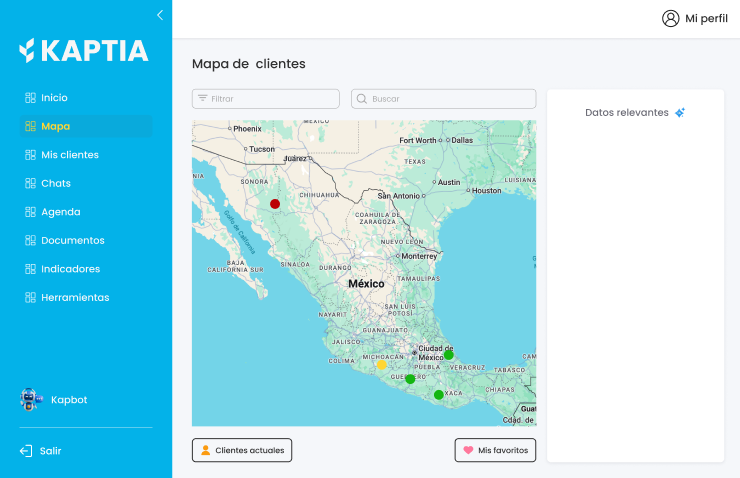
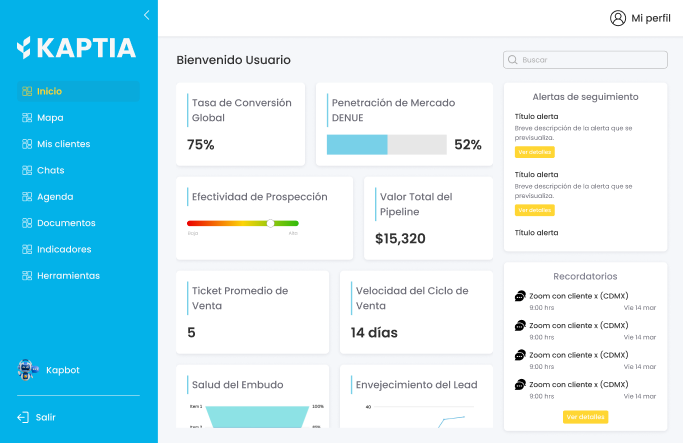
feat(product): redesign product page with scroll animations and new hero
Rebuild Product section with responsive layout across sm/md/lg/xl,
useScrollAnimation hook on all below-fold sections, centered hero with
badge, logo, yellow accent and glow, dashboard showcase, features grid
with staggered cards, and closing CTA section.

diff --git a/src/sections/Product.jsx b/src/sections/Product.jsx
@@ -1,7 +1,210 @@
+"use client";
+import { CheckCircleIcon } from "@heroicons/react/24/solid";
+import CustomButton from "@ui/CustomButton";
+import { useScrollAnimation } from "@/hooks/useScrollAnimation";
+
+const FEATURES = [
+  {
+    title: "CRM",
+    description: "Gestiona clientes y oportunidades en un solo lugar",
+  },
+  {
+    title: "Mapa interactivo de prospectos",
+    description: "Visualiza clientes potenciales geolocalizados en tiempo real",
+  },
+  {
+    title: "Agenda inteligente",
+    description: "Organiza visitas y seguimientos de forma eficiente",
+  },
+  {
+    title: "Herramientas especializadas de la industria",
+    description: "Funcionalidades diseñadas para el sector agroindustrial",
+  },
+  {
+    title: "Asistente virtual",
+    description: "KaptiaBot analiza y prioriza prospectos por ti",
+  },
+];
+
 export default function Product() {
-    return (
-        <>
-            Pantalla de producto va aquí
-        </>
-    );
+  const [dashboardHeadingRef, dashboardHeadingVisible] = useScrollAnimation();
+  const [dashboardImagesRef, dashboardImagesVisible] = useScrollAnimation();
+  const [featuresHeadingRef, featuresHeadingVisible] = useScrollAnimation();
+  const [featuresGridRef, featuresGridVisible] = useScrollAnimation();
+  const [closingTextRef, closingTextVisible] = useScrollAnimation();
+  const [closingCtaRef, closingCtaVisible] = useScrollAnimation();
+
+  return (
+    <>
+      <section className="min-h-screen flex flex-col justify-center items-center px-5 lg:px-8 pt-24 pb-20 relative overflow-hidden text-center">
+        <img
+          className="absolute right-0 top-1/2 -translate-y-1/2 h-[110vh] opacity-[0.06] pointer-events-none select-none"
+          src="/images/figura_3.webp"
+          alt=""
+          aria-hidden="true"
+        />
+
+        <div className="absolute top-1/2 left-1/2 -translate-x-1/2 -translate-y-1/2 w-150 h-150 rounded-full bg-kaptia-primary-blue/10 blur-3xl pointer-events-none" />
+
+        <div className="flex flex-col items-center gap-8 z-10 max-w-4xl w-full">
+          <span className="border border-kaptia-secondary-blue/30 text-kaptia-secondary-blue text-xs font-semibold px-5 py-2 rounded-full bg-kaptia-secondary-blue/10 uppercase tracking-widest animate-slide-in-bottom">
+            Plataforma de ventas inteligente
+          </span>
+
+          <div className="flex flex-col items-center gap-4">
+            <h1 className="text-white/60 font-black text-2xl md:text-3xl uppercase tracking-[0.3em] animate-slide-in-bottom animate-delay-100">
+              Conoce a
+            </h1>
+            <img
+              className="h-16 md:h-24 xl:h-28 animate-slide-in-bottom animate-delay-200"
+              src="/logos/logoCombinado.webp"
+              alt="Logo de Kaptia"
+            />
+          </div>
+
+          <div className="w-16 h-1 bg-kaptia-yellow rounded-full animate-slide-in-bottom animate-delay-300" />
+
+          <p className="text-white/60 text-xl md:text-2xl font-light leading-relaxed max-w-2xl animate-slide-up-fade animate-delay-300">
+            La plataforma inteligente de prospección y gestión comercial para
+            equipos de ventas del sector agroindustrial.
+          </p>
+
+          <div className="flex flex-col gap-4 items-center animate-slide-up-fade animate-delay-400">
+            <CustomButton
+              text="Solicitar demo"
+              primaryColor="bg-kaptia-yellow"
+              secondaryColor="bg-white"
+              textColor="text-kaptia-primary-blue"
+              onClick={() => (window.location.href = "#contacto")}
+            />
+            <button
+              className="text-white/50 hover:text-white text-sm font-medium transition-colors duration-300 cursor-pointer underline underline-offset-4"
+              onClick={() =>
+                document
+                  .getElementById("features")
+                  ?.scrollIntoView({ behavior: "smooth" })
+              }
+            >
+              Ver funcionalidades
+            </button>
+          </div>
+        </div>
+      </section>
+
+      <section
+        data-navtheme="light"
+        className="bg-white py-20 md:py-28 px-5 lg:px-8 flex flex-col items-center gap-14 border-t-4 border-kaptia-yellow"
+      >
+        <div
+          ref={dashboardHeadingRef}
+          className="flex flex-col items-center gap-3 text-center"
+        >
+          <span
+            className={`text-kaptia-primary-blue font-semibold text-sm uppercase tracking-[0.2em] ${dashboardHeadingVisible ? "animate-slide-in-bottom" : "opacity-0"}`}
+          >
+            Plataforma
+          </span>
+          <h2
+            className={`text-kaptia-primary-blue font-black text-4xl md:text-5xl xl:text-6xl max-w-2xl leading-tight ${dashboardHeadingVisible ? "animate-slide-in-bottom animate-delay-100" : "opacity-0"}`}
+          >
+            Todo lo que tu equipo necesita
+          </h2>
+        </div>
+
+        <div
+          ref={dashboardImagesRef}
+          className="flex flex-col lg:flex-row gap-6 xl:gap-10 items-center justify-center w-full max-w-6xl"
+        >
+          <img
+            className={`w-full sm:w-4/5 lg:w-3/5 rounded-2xl shadow-2xl ${dashboardImagesVisible ? "animate-slide-in-left" : "opacity-0"}`}
+            src="/images/figura_8.webp"
+            alt="Dashboard de Kaptia con mapa de prospectos"
+          />
+        </div>
+      </section>
+
+      <section
+        className="py-20 md:py-28 px-5 lg:px-8 flex flex-col items-center gap-14 border-t-4 border-kaptia-yellow"
+        id="features"
+      >
+        <div
+          ref={featuresHeadingRef}
+          className="flex flex-col items-center gap-3 text-center"
+        >
+          <span
+            className={`text-kaptia-secondary-blue font-semibold text-sm uppercase tracking-[0.2em] ${featuresHeadingVisible ? "animate-slide-in-bottom" : "opacity-0"}`}
+          >
+            Funcionalidades
+          </span>
+          <h2
+            className={`text-white font-black text-4xl md:text-5xl xl:text-6xl ${featuresHeadingVisible ? "animate-slide-in-bottom animate-delay-100" : "opacity-0"}`}
+          >
+            ¿Qué incluye Kaptia?
+          </h2>
+        </div>
+
+        <ul
+          ref={featuresGridRef}
+          className="grid grid-cols-1 sm:grid-cols-2 xl:grid-cols-3 gap-5 w-full max-w-5xl"
+        >
+          {FEATURES.map((feature, idx) => (
+            <li
+              key={idx}
+              style={{ animationDelay: `${idx * 120}ms` }}
+              className={`bg-white/5 border border-white/10 rounded-2xl p-6 flex flex-col gap-4 hover:bg-white/10 hover:border-kaptia-secondary-blue/40 transition-colors duration-300 ${featuresGridVisible ? "animate-slide-up-fade" : "opacity-0"}`}
+            >
+              <CheckCircleIcon className="size-10 text-kaptia-secondary-blue shrink-0" />
+              <div className="flex flex-col gap-1">
+                <span className="text-white font-bold text-lg leading-snug">
+                  {feature.title}
+                </span>
+                <span className="text-white/50 text-sm leading-relaxed">
+                  {feature.description}
+                </span>
+              </div>
+            </li>
+          ))}
+        </ul>
+      </section>
+
+      <section
+        data-navtheme="light"
+        className="bg-white py-20 md:py-28 px-5 lg:px-8 flex flex-col justify-center items-center gap-14 border-t-4 border-kaptia-yellow"
+      >
+        <div ref={closingTextRef} className="flex flex-col gap-2">
+          <span
+            className={`text-kaptia-yellow text-4xl md:text-6xl lg:text-7xl text-center font-extrabold ${closingTextVisible ? "animate-slide-in-left" : "opacity-0"}`}
+          >
+            Tareas que hoy te toman horas
+          </span>
+          <span
+            className={`text-kaptia-primary-blue text-4xl md:text-6xl lg:text-7xl text-center font-light ${closingTextVisible ? "animate-slide-in-right animate-delay-100" : "opacity-0"}`}
+          >
+            con KAPTIA
+          </span>
+          <span
+            className={`text-kaptia-primary-blue text-4xl md:text-6xl lg:text-7xl text-center font-extrabold ${closingTextVisible ? "animate-slide-in-left animate-delay-200" : "opacity-0"}`}
+          >
+            te llevará segundos
+          </span>
+        </div>
+        <div
+          ref={closingCtaRef}
+          className="flex flex-col justify-center items-center gap-4"
+        >
+          <p
+            className={`font-light text-2xl md:text-4xl ${closingCtaVisible ? "animate-slide-in-bottom" : "opacity-0"}`}
+          >
+            ¿Quieres descubir cómo?
+          </p>
+          <CustomButton
+            text="SOLICITAR DEMO"
+            primaryColor="bg-kaptia-primary-blue"
+            secondaryColor="bg-kaptia-yellow"
+            textColor="text-white hover:text-kaptia-primary-blue"
+          />
+        </div>
+      </section>
+    </>
+  );
 }

diff --git a/src/app/producto/page.jsx b/src/app/producto/page.jsx
@@ -8,7 +8,7 @@ export const metadata = {
 
 export default function Producto() {
   return (
-    <main>
+    <main className="bg-kaptia-primary-blue">
       <Product />
     </main>
   );
